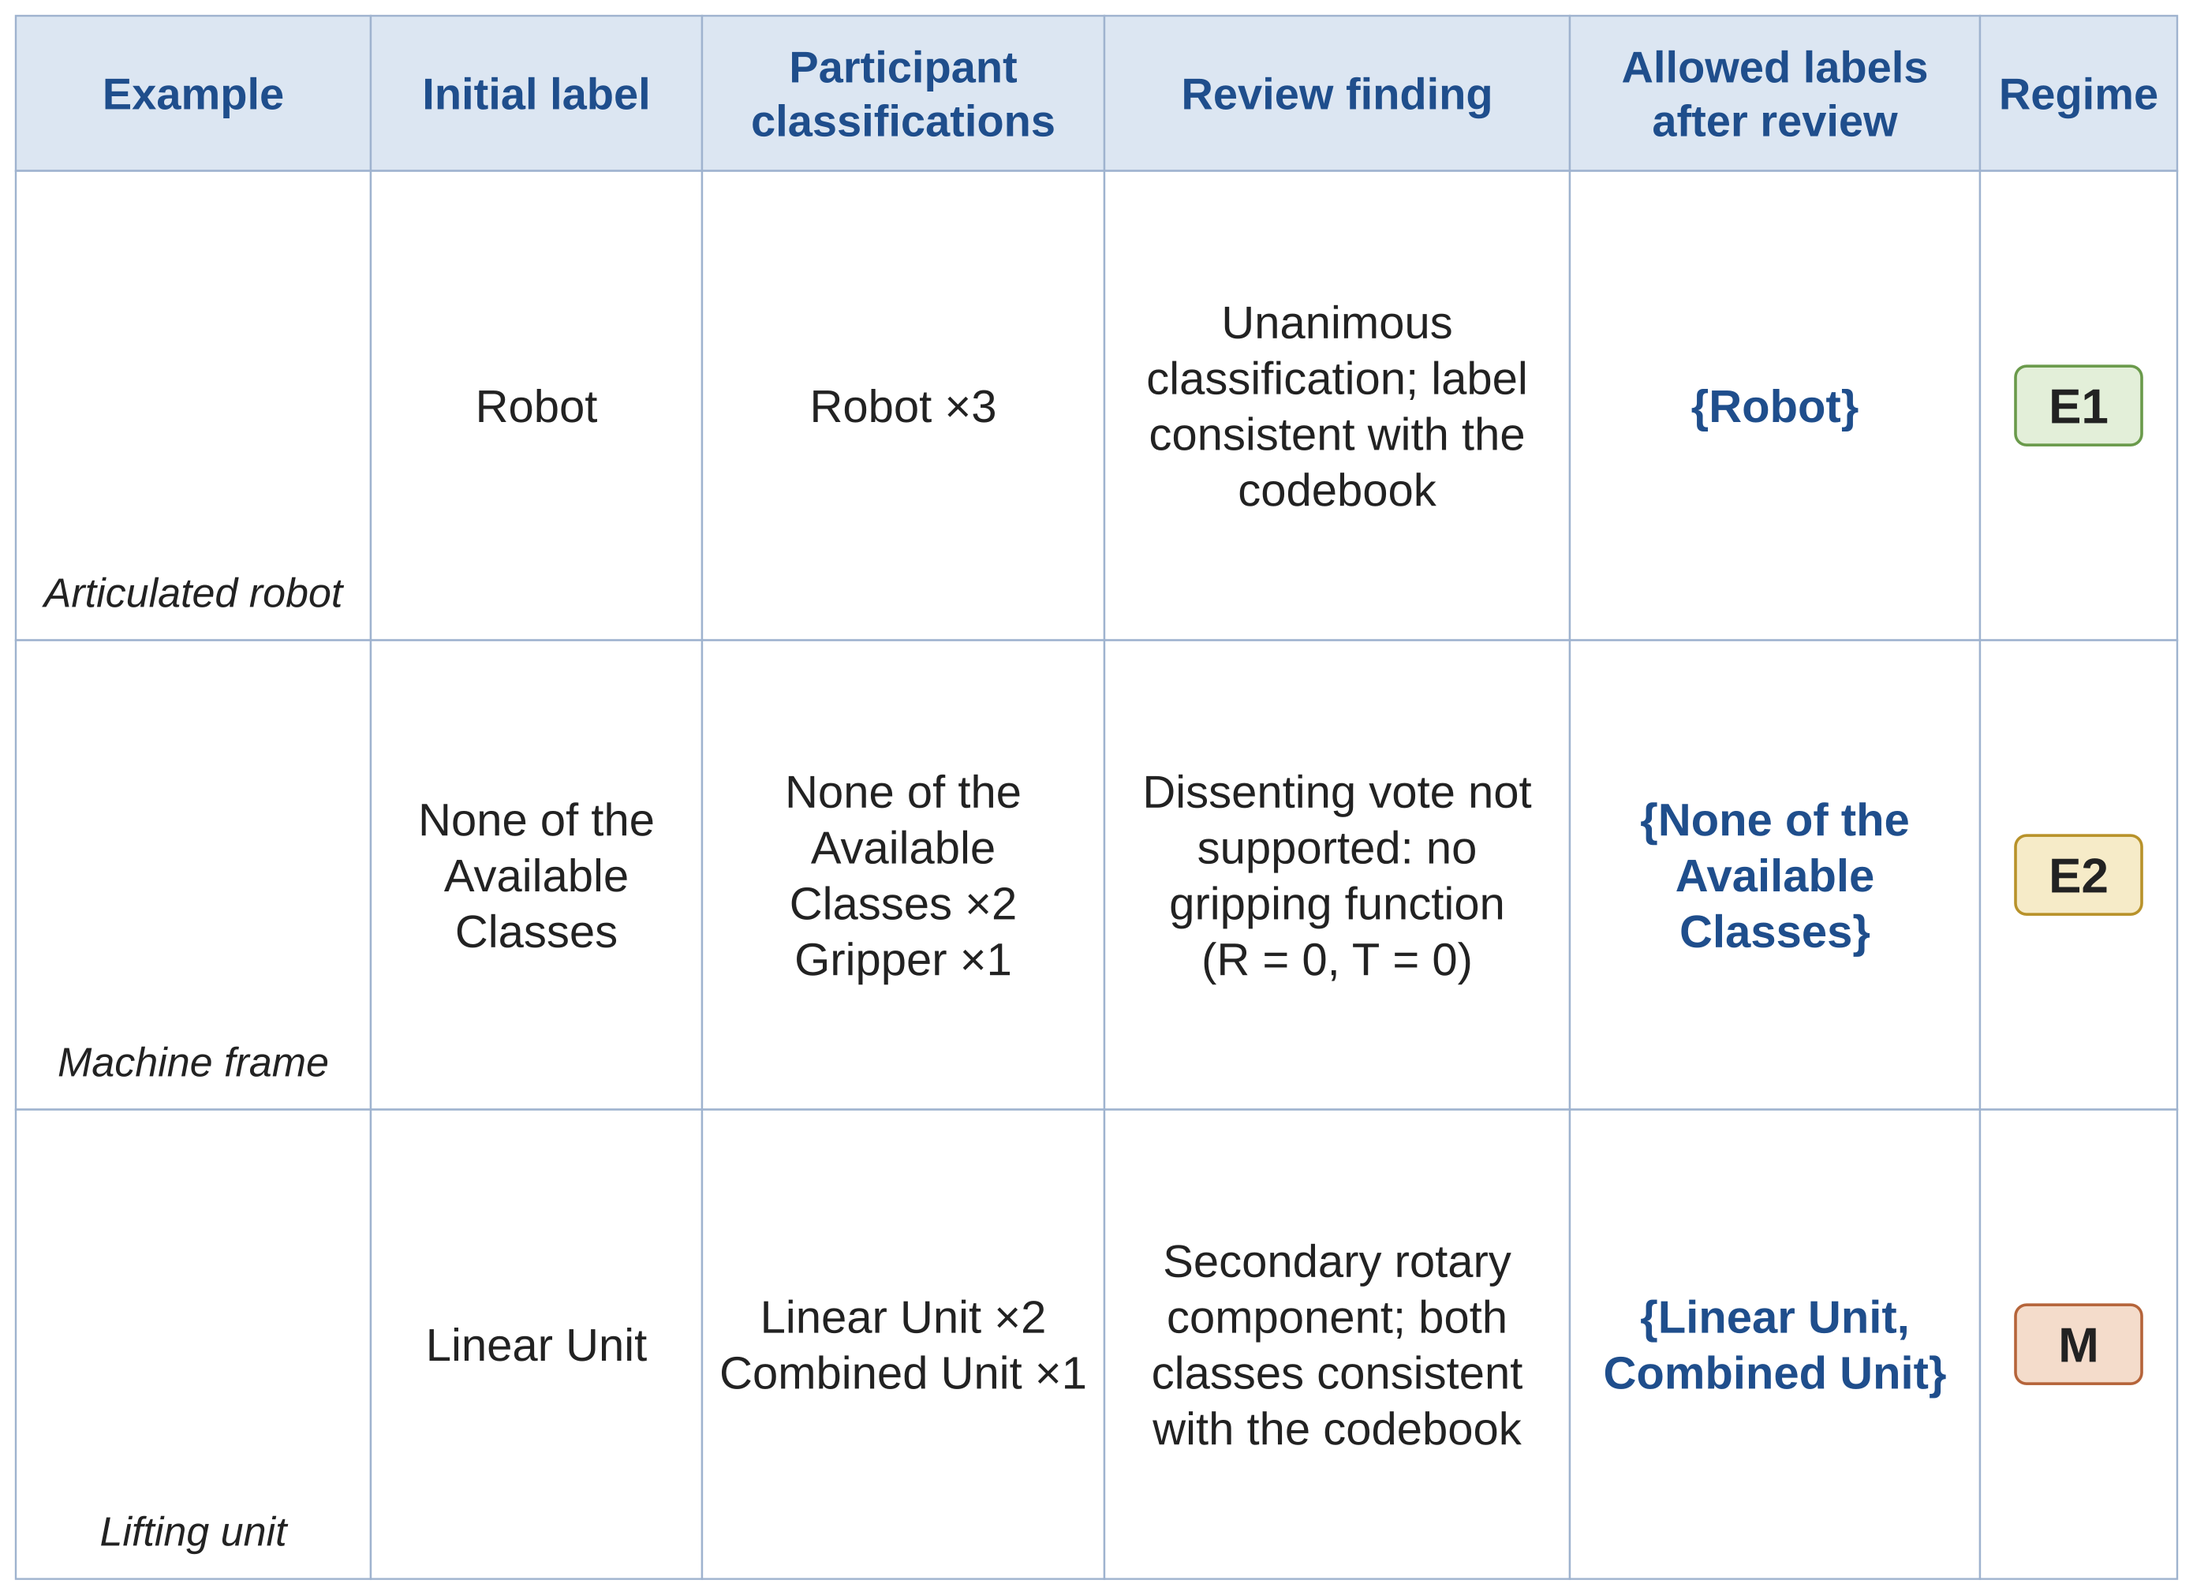
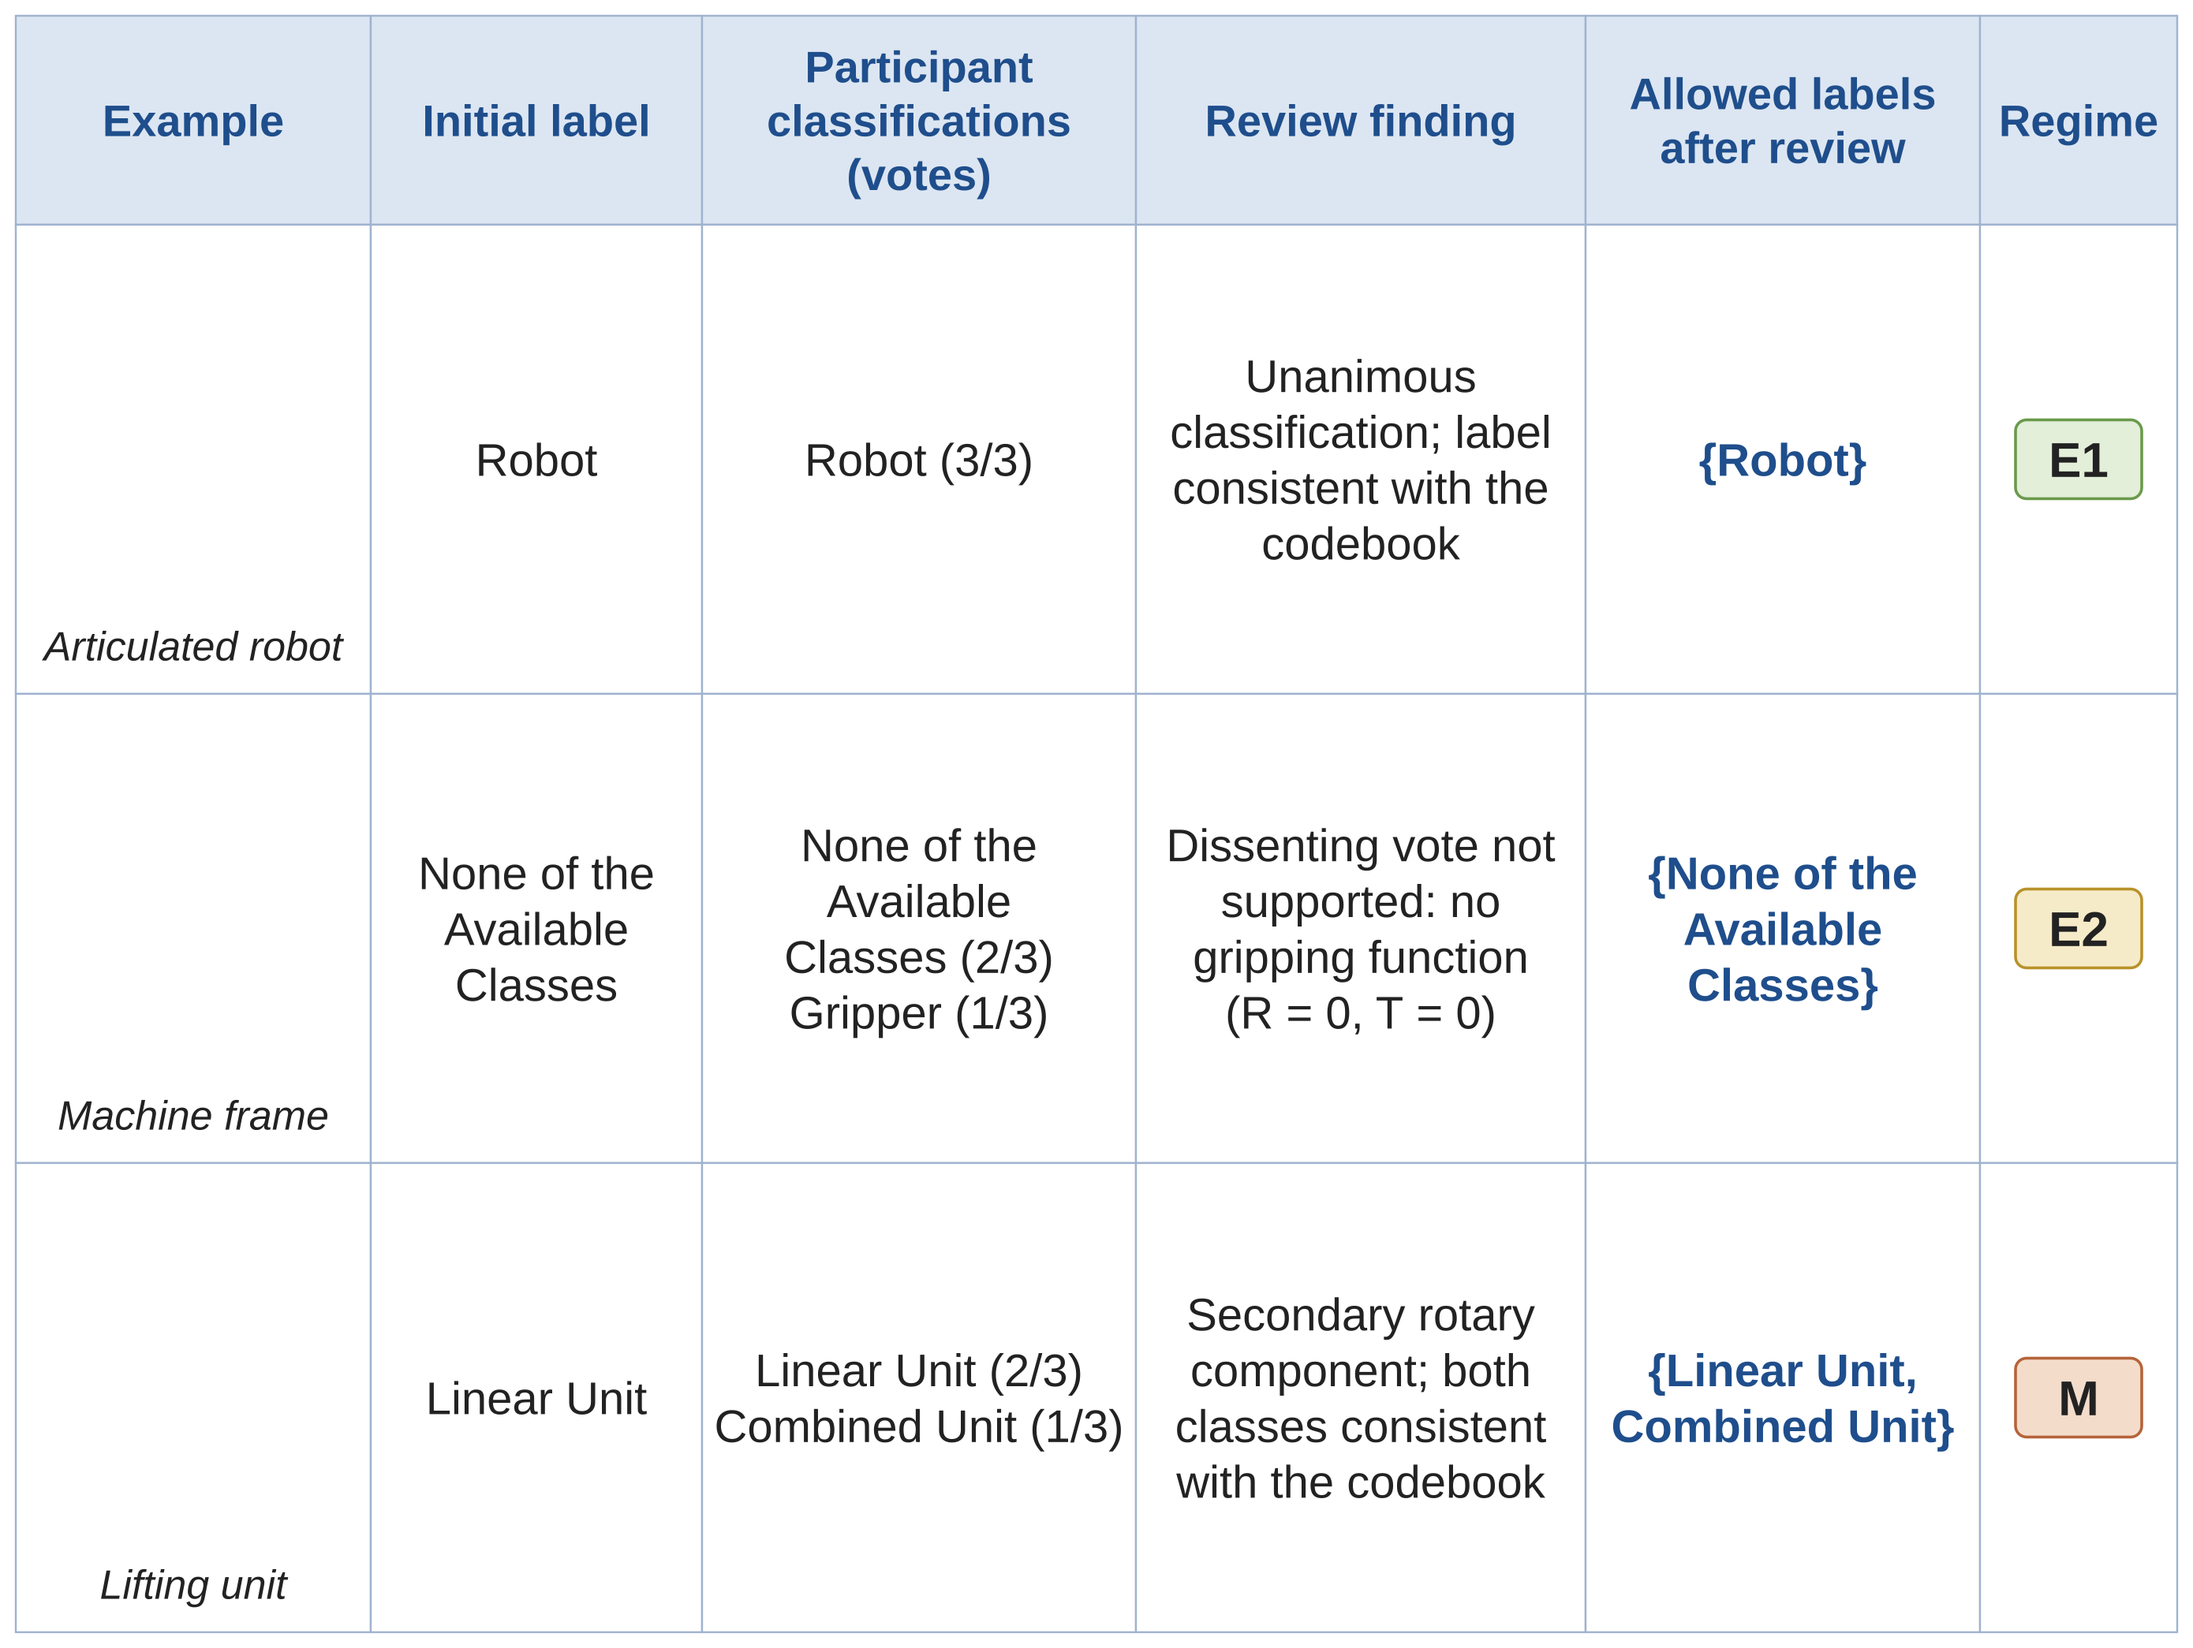
Show participant votes as fractions in Figure 4.4
Claude-Session: https://claude.ai/code/session_015KCPe11SxvEX6a18zciCVc

diff --git a/thesis/figures/make_fig_4_4.py b/thesis/figures/make_fig_4_4.py
@@ -21,19 +21,19 @@ PAD = 16           # horizontal padding inside a cell
 IMG_H = 230        # blank space reserved for a portrait image
 X0 = Y0 = 10
 
-cols = [("Example", 225), ("Initial label", 210), ("Participant classifications", 255),
-        ("Review finding", 295), ("Allowed labels after review", 260), ("Regime", 125)]
+cols = [("Example", 225), ("Initial label", 210), ("Participant classifications (votes)", 275),
+        ("Review finding", 285), ("Allowed labels after review", 250), ("Regime", 125)]
 
 examples = [
-    {"name": "Articulated robot", "initial": "Robot", "votes": ["Robot ×3"],
+    {"name": "Articulated robot", "initial": "Robot", "votes": ["Robot (3/3)"],
      "finding": "Unanimous classification; label consistent with the codebook",
      "allowed": "{Robot}", "regime": "E1"},
     {"name": "Machine frame", "initial": "None of the Available Classes",
-     "votes": ["None of the Available Classes ×2", "Gripper ×1"],
+     "votes": ["None of the Available Classes (2/3)", "Gripper (1/3)"],
      "finding": "Dissenting vote not supported: no gripping function (R = 0, T = 0)",
      "allowed": "{None of the Available Classes}", "regime": "E2"},
     {"name": "Lifting unit", "initial": "Linear Unit",
-     "votes": ["Linear Unit ×2", "Combined\u00a0Unit ×1"],
+     "votes": ["Linear Unit (2/3)", "Combined\u00a0Unit (1/3)"],
      "finding": "Secondary rotary component; both classes consistent with the codebook",
      "allowed": "{Linear Unit, Combined\u00a0Unit}", "regime": "M"},
 ]
